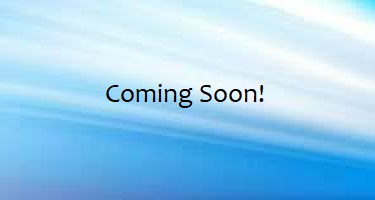
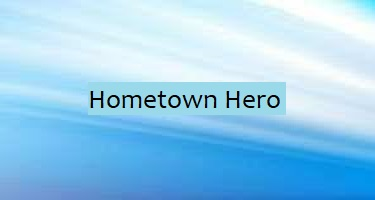
added project 3

Changed region(s): [[0.2347, 0.39, 0.7627, 0.6], [0.2347, 0.57, 0.264, 0.6]]

diff --git a/index.html b/index.html
@@ -37,8 +37,8 @@
                     </section>
                         <a href="https://group7-smokequitter.herokuapp.com/">
                         <img src="./assets/images/banner2.jpg"/></a>
+                        <a href="https://hometownhero.herokuapp.com/" ><img src="./assets/images/banner3.jpg"/></a>
                         <img src="./assets/images/banner4.jpg"/>
-                        <img src="./assets/images/banner3.jpg"/>
                         <img src="./assets/images/banner5.jpg"/>
                 </section>    
             </section>
